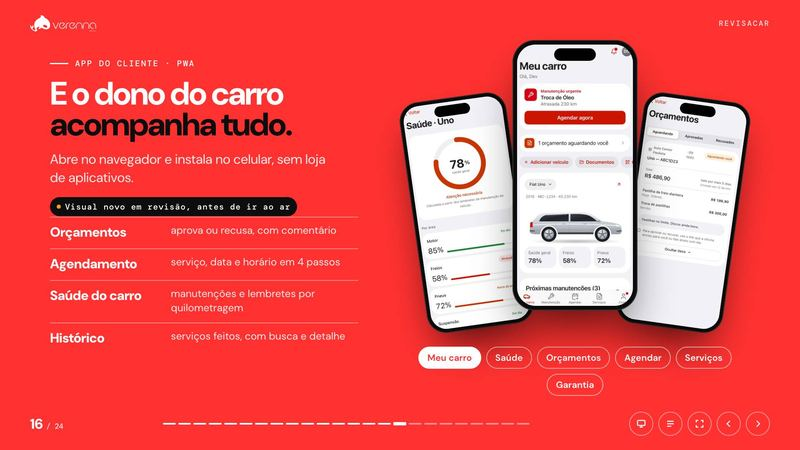
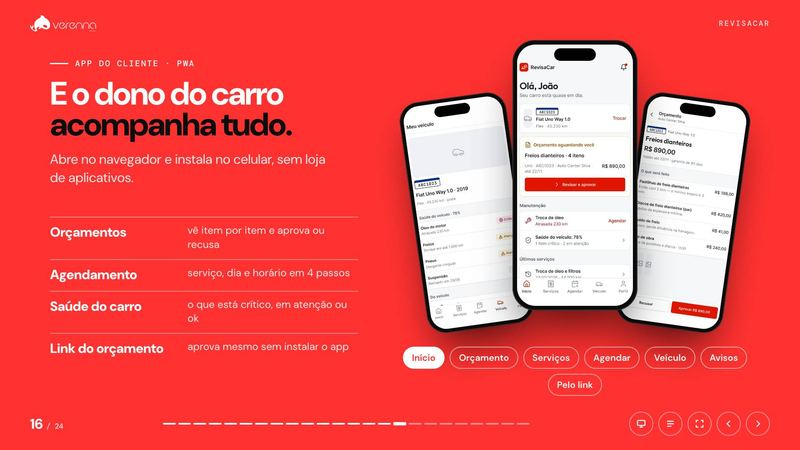
App do cliente com as telas do Figma

diff --git a/index.html b/index.html
@@ -369,7 +369,7 @@ button{font:inherit;color:inherit;background:none;border:0;cursor:pointer}
 /* ═════════ 15 · APP DO CLIENTE ═════════ */
 .s-cli .head{position:absolute;left:120px;top:140px;width:760px;display:grid;gap:24px}
 .s-cli .feats{position:absolute;left:120px;top:520px;width:740px;display:grid;gap:18px}
-.s-cli .feats div{display:grid;grid-template-columns:270px 1fr;gap:20px;border-top:2px solid var(--line);padding-top:14px}
+.s-cli .feats div{display:grid;grid-template-columns:310px 1fr;gap:20px;border-top:2px solid var(--line);padding-top:14px}
 .s-cli .feats b{font-size:32px;font-weight:850;letter-spacing:-.02em}
 .s-cli .feats span{font-size:25px;line-height:1.35;color:var(--soft)}
 .s-cli .phones{position:absolute;left:960px;top:96px;width:840px;height:760px}
@@ -711,20 +711,20 @@ button{font:inherit;color:inherit;background:none;border:0;cursor:pointer}
 
 <!-- 15 APP DO CLIENTE -->
 <section class="scene red s-cli" data-title="App do cliente" data-chap="RevisaCar">
-  <div class="head"><p class="kick rv">App do cliente · PWA</p><h2 class="h2"><span class="ln"><span>E o dono do carro</span></span><span class="ln"><span style="--d:100;color:var(--ink)">acompanha tudo.</span></span></h2><p class="lede rv" style="--d:300">Abre no navegador e instala no celular, sem loja de aplicativos.</p><span class="wip rv" style="--d:400">Visual novo em revisão, antes de ir ao ar</span></div>
+  <div class="head"><p class="kick rv">App do cliente · PWA</p><h2 class="h2"><span class="ln"><span>E o dono do carro</span></span><span class="ln"><span style="--d:100;color:var(--ink)">acompanha tudo.</span></span></h2><p class="lede rv" style="--d:300">Abre no navegador e instala no celular, sem loja de aplicativos.</p></div>
   <div class="feats rv" style="--d:450">
-    <div><b>Orçamentos</b><span>aprova ou recusa, com comentário</span></div>
-    <div><b>Agendamento</b><span>serviço, data e horário em 4 passos</span></div>
-    <div><b>Saúde do carro</b><span>manutenções e lembretes por quilometragem</span></div>
-    <div><b>Histórico</b><span>serviços feitos, com busca e detalhe</span></div>
+    <div><b>Orçamentos</b><span>vê item por item e aprova ou recusa</span></div>
+    <div><b>Agendamento</b><span>serviço, dia e horário em 4 passos</span></div>
+    <div><b>Saúde do carro</b><span>o que está crítico, em atenção ou ok</span></div>
+    <div><b>Link do orçamento</b><span>aprova mesmo sem instalar o app</span></div>
   </div>
   <div class="phones">
-    <div class="phone a rv" style="--d:300"><div class="s"><img src="img/cli-saude.webp" alt="Saúde do veículo"></div></div>
-    <div class="phone b rv" style="--d:200"><div class="s"><img id="cliImg" src="img/cli-inicio.webp" alt="Tela inicial do app do cliente"></div></div>
-    <div class="phone c rv" style="--d:400"><div class="s"><img src="img/cli-orcamentos.webp" alt="Orçamentos"></div></div>
+    <div class="phone a rv" style="--d:300"><div class="s"><img src="img/fc06.webp" alt="Meu veículo e saúde do carro"></div></div>
+    <div class="phone b rv" style="--d:200"><div class="s"><img id="cliImg" src="img/fc01.webp" alt="Tela inicial do app do cliente"></div></div>
+    <div class="phone c rv" style="--d:400"><div class="s"><img src="img/fc04.webp" alt="Orçamento"></div></div>
   </div>
   <div class="tabs rv" style="--d:600" id="cliTabs">
-    <button class="act" data-i="cli-inicio">Meu carro</button><button data-i="cli-saude">Saúde</button><button data-i="cli-orcamentos">Orçamentos</button><button data-i="cli-agendar">Agendar</button><button data-i="cli-servicos">Serviços</button><button data-i="cli-garantia">Garantia</button>
+    <button class="act" data-i="fc01">Início</button><button data-i="fc04">Orçamento</button><button data-i="fc03">Serviços</button><button data-i="fc05">Agendar</button><button data-i="fc06">Veículo</button><button data-i="fc08">Avisos</button><button data-i="fc09">Pelo link</button>
   </div>
 </section>
 
@@ -1102,7 +1102,7 @@ const NOTES={
 's-os':['O caminho de uma OS em 5 passos: abrir, ficha de entrada, fotos obrigatórias, inspeção e quadro de atendimento.','Depois de concluída, a OS não pode mais ser alterada: integridade dos dados.'],
 's-ins':['Checklist por sistema do carro: motor, frenagem, suspensão, elétrico, transmissão, pneus, carroceria, interior e personalizada.','Cada item: OK, Atenção, Crítico ou N/A. O encerramento tem assinatura e gera o PDF.'],
 's-mod':['Dez módulos integrados.','Cliente se liga a veículo, agendamento e OS; a OS alimenta o painel e o financeiro. (passe o mouse na lista)'],
-'s-cli':['O dono do carro também tem o app: é um PWA, instala sem loja.','As telas mostram o visual novo, que ainda está em revisão; as funções de orçamento e convite de oficina já estão no código principal.','Aprova ou recusa orçamento, agenda em 4 passos, acompanha manutenções e o histórico.','Prioridade do projeto: aumentar a confiança do cliente.'],
+'s-cli':['O dono do carro também tem o app: é um PWA, instala sem loja.','Vê o orçamento item por item e aprova ou recusa; agenda em 4 passos; acompanha a saúde do carro. Até pelo link, sem instalar.','Prioridade do projeto: aumentar a confiança do cliente.'],
 's-cmp':['Arraste a alça ao vivo: antes, papel e mensagem solta; depois, a oficina num lugar só.'],
 's-arch':['Três camadas: React com Vite e TypeScript; API em Django REST; PostgreSQL no Supabase; publicado no Render a partir do GitHub.','Acesso por papel (RBAC), login separado de dono e funcionário, LGPD e escapeHtml() no PDF.'],
 's-qa':['28 casos de teste executados, todos aprovados, de 39 planejados.','3 problemas achados em testes exploratórios, 2 já corrigidos. Trabalhamos com Scrum.'],
